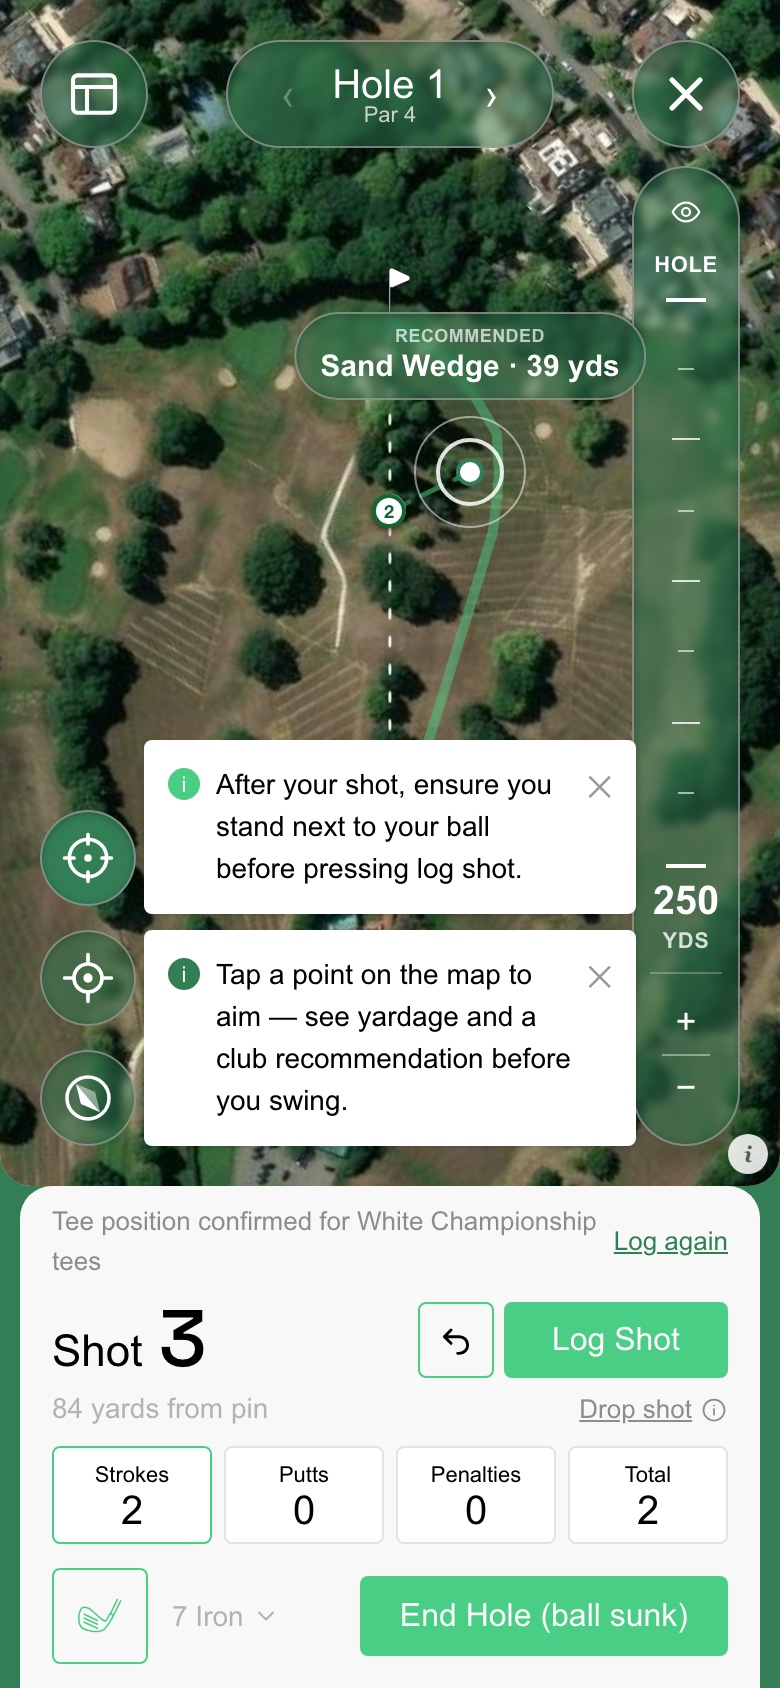
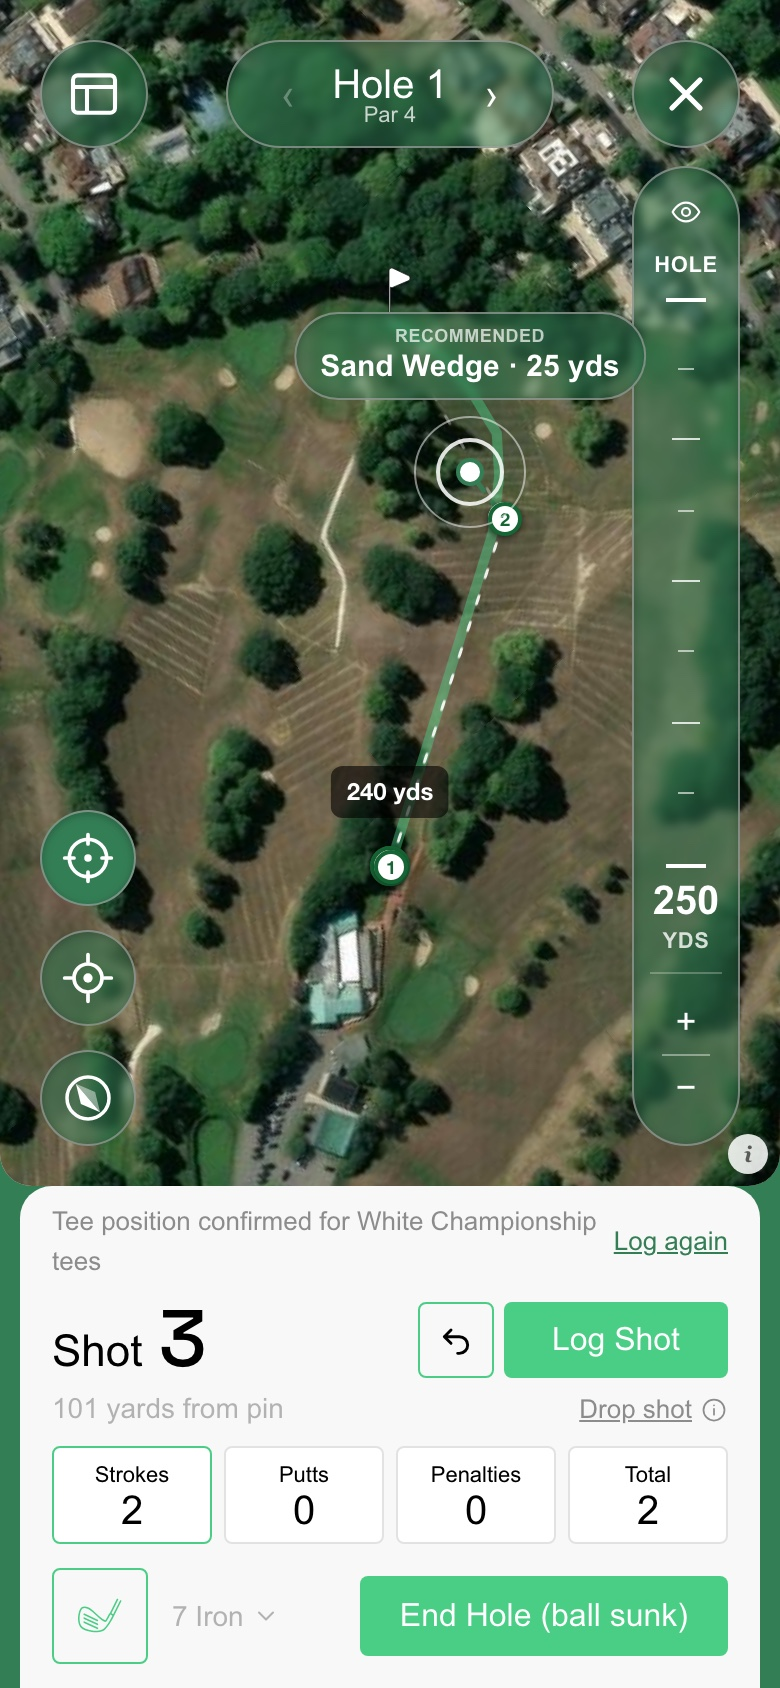
Fix golf-shot-tracker screenshots: natural shot path, no tip overlays, full uncropped screens
Re-captured all 3 "how it works" screenshots against the live app: shots
are now placed along the real fairway path with slight lateral dispersion
instead of a straight tee-to-green line, and in-app coaching tip overlays
are dismissed before each capture. Also reworked the image container to
show the full, uncropped phone screen (inset, not full-bleed) instead of
cropping ~35% off the bottom, and aligned hero section padding with the
nav bar.

diff --git a/src/app/(site)/golf-shot-tracker/page.tsx b/src/app/(site)/golf-shot-tracker/page.tsx
@@ -60,7 +60,7 @@ export default async function GolfShotTracker() {
     <div className="flex flex-1 flex-col bg-[#347e55]">
       <SiteNav alwaysVisible />
       <main className="flex flex-1 flex-col items-center gap-16 sm:gap-20">
-        <div className="flex w-full flex-col items-center gap-10 px-6 pt-[130px] pb-0 sm:pt-[150px] sm:pb-6 md:flex-row md:items-center md:gap-14 md:px-16">
+        <div className="flex w-full flex-col items-center gap-10 px-6 pt-[130px] pb-0 sm:pt-[150px] sm:pb-6 sm:px-10 md:flex-row md:items-center md:gap-14 md:px-14">
           <div className="flex w-full flex-col items-center text-center md:flex-1 md:items-start md:text-left">
             <span className="inline-block rounded-[24px] border border-[#87ffad] bg-[#212121] px-[10px] py-[4px] text-[14px] font-bold text-[#87ffad] [font-family:var(--font-space-grotesk)] sm:text-[16px]">
               Golf Shot Tracker
@@ -106,17 +106,19 @@ export default async function GolfShotTracker() {
                 key={step.title}
                 className="flex h-full w-full flex-col gap-5 overflow-hidden rounded-[20px] border border-white/15 bg-white/[0.04]"
               >
-                <div className="relative aspect-[390/550] w-full overflow-hidden">
-                  <Image
-                    src={step.image}
-                    alt={step.alt}
-                    fill
-                    sizes="(min-width: 768px) 360px, 100vw"
-                    className="object-cover object-top"
-                  />
-                  <span className="absolute left-4 top-4 flex h-[36px] w-[36px] shrink-0 items-center justify-center rounded-full border border-[#87ffad]/60 bg-[#212121] text-[14px] font-bold text-[#87ffad] [font-family:var(--font-space-grotesk)]">
+                <div className="relative flex w-full justify-center bg-[#1a1a1a] pt-8">
+                  <span className="absolute left-4 top-4 z-10 flex h-[36px] w-[36px] shrink-0 items-center justify-center rounded-full border border-[#87ffad]/60 bg-[#212121] text-[14px] font-bold text-[#87ffad] [font-family:var(--font-space-grotesk)]">
                     {String(index + 1).padStart(2, "0")}
                   </span>
+                  <div className="relative aspect-[390/844] w-[62%] max-w-[230px] overflow-hidden rounded-[18px] shadow-[0_12px_32px_rgba(0,0,0,0.35)]">
+                    <Image
+                      src={step.image}
+                      alt={step.alt}
+                      fill
+                      sizes="230px"
+                      className="object-contain object-top"
+                    />
+                  </div>
                 </div>
                 <div className="flex flex-1 flex-col gap-3 px-8 pb-8">
                   <h3 className="text-[20px] leading-[1.15] font-medium tracking-[-0.4px] text-white [font-family:var(--font-space-grotesk)]">
